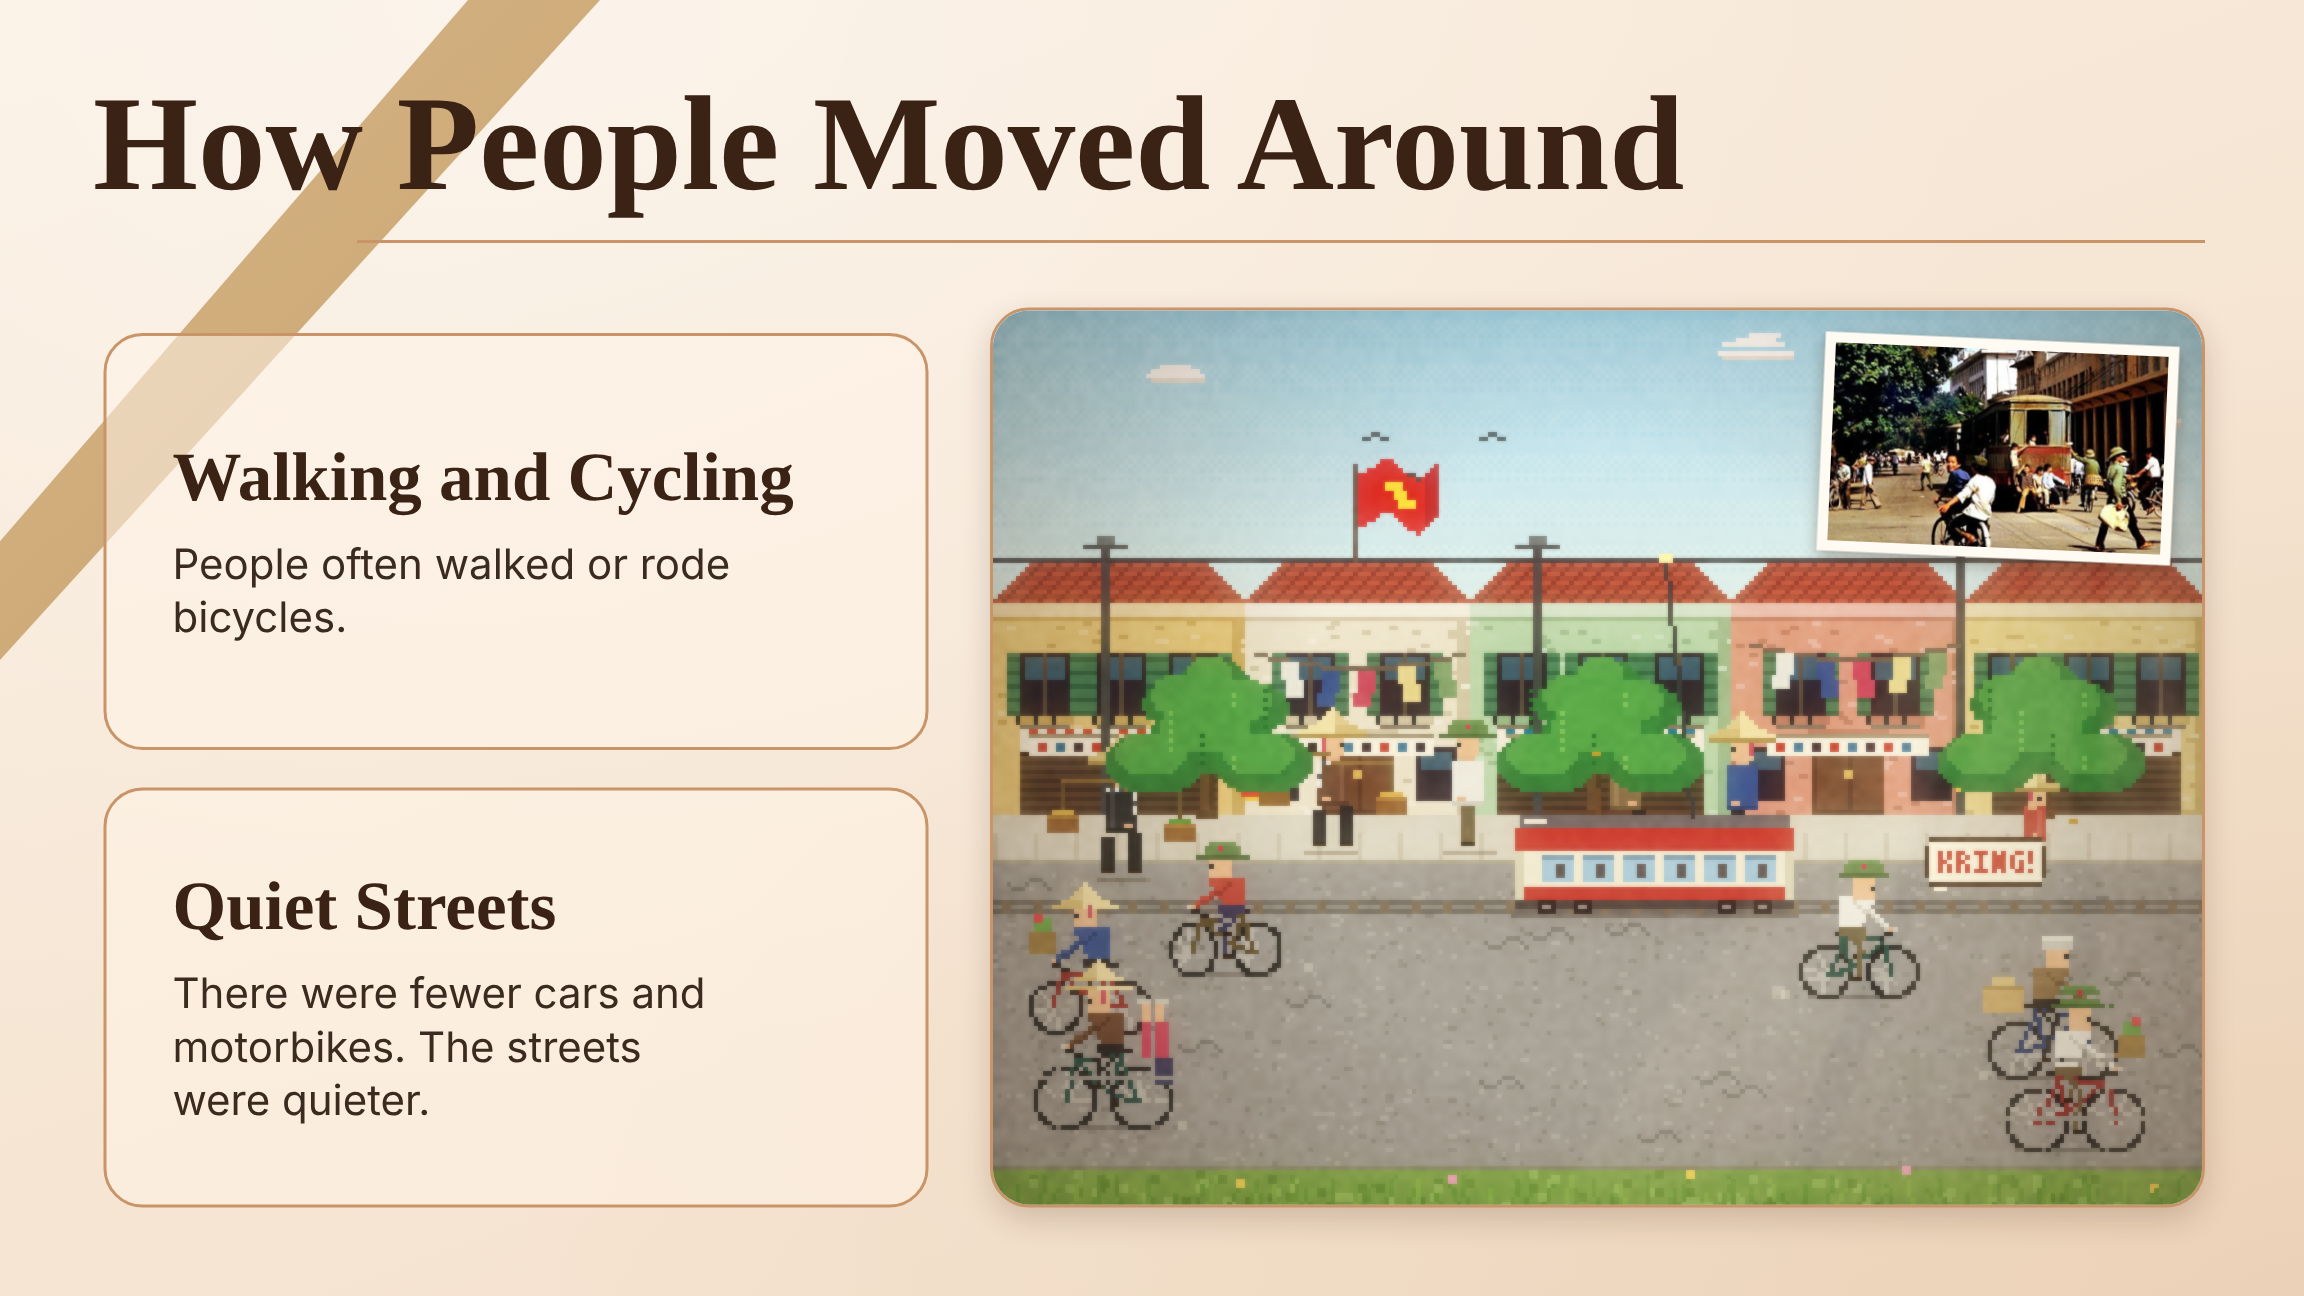
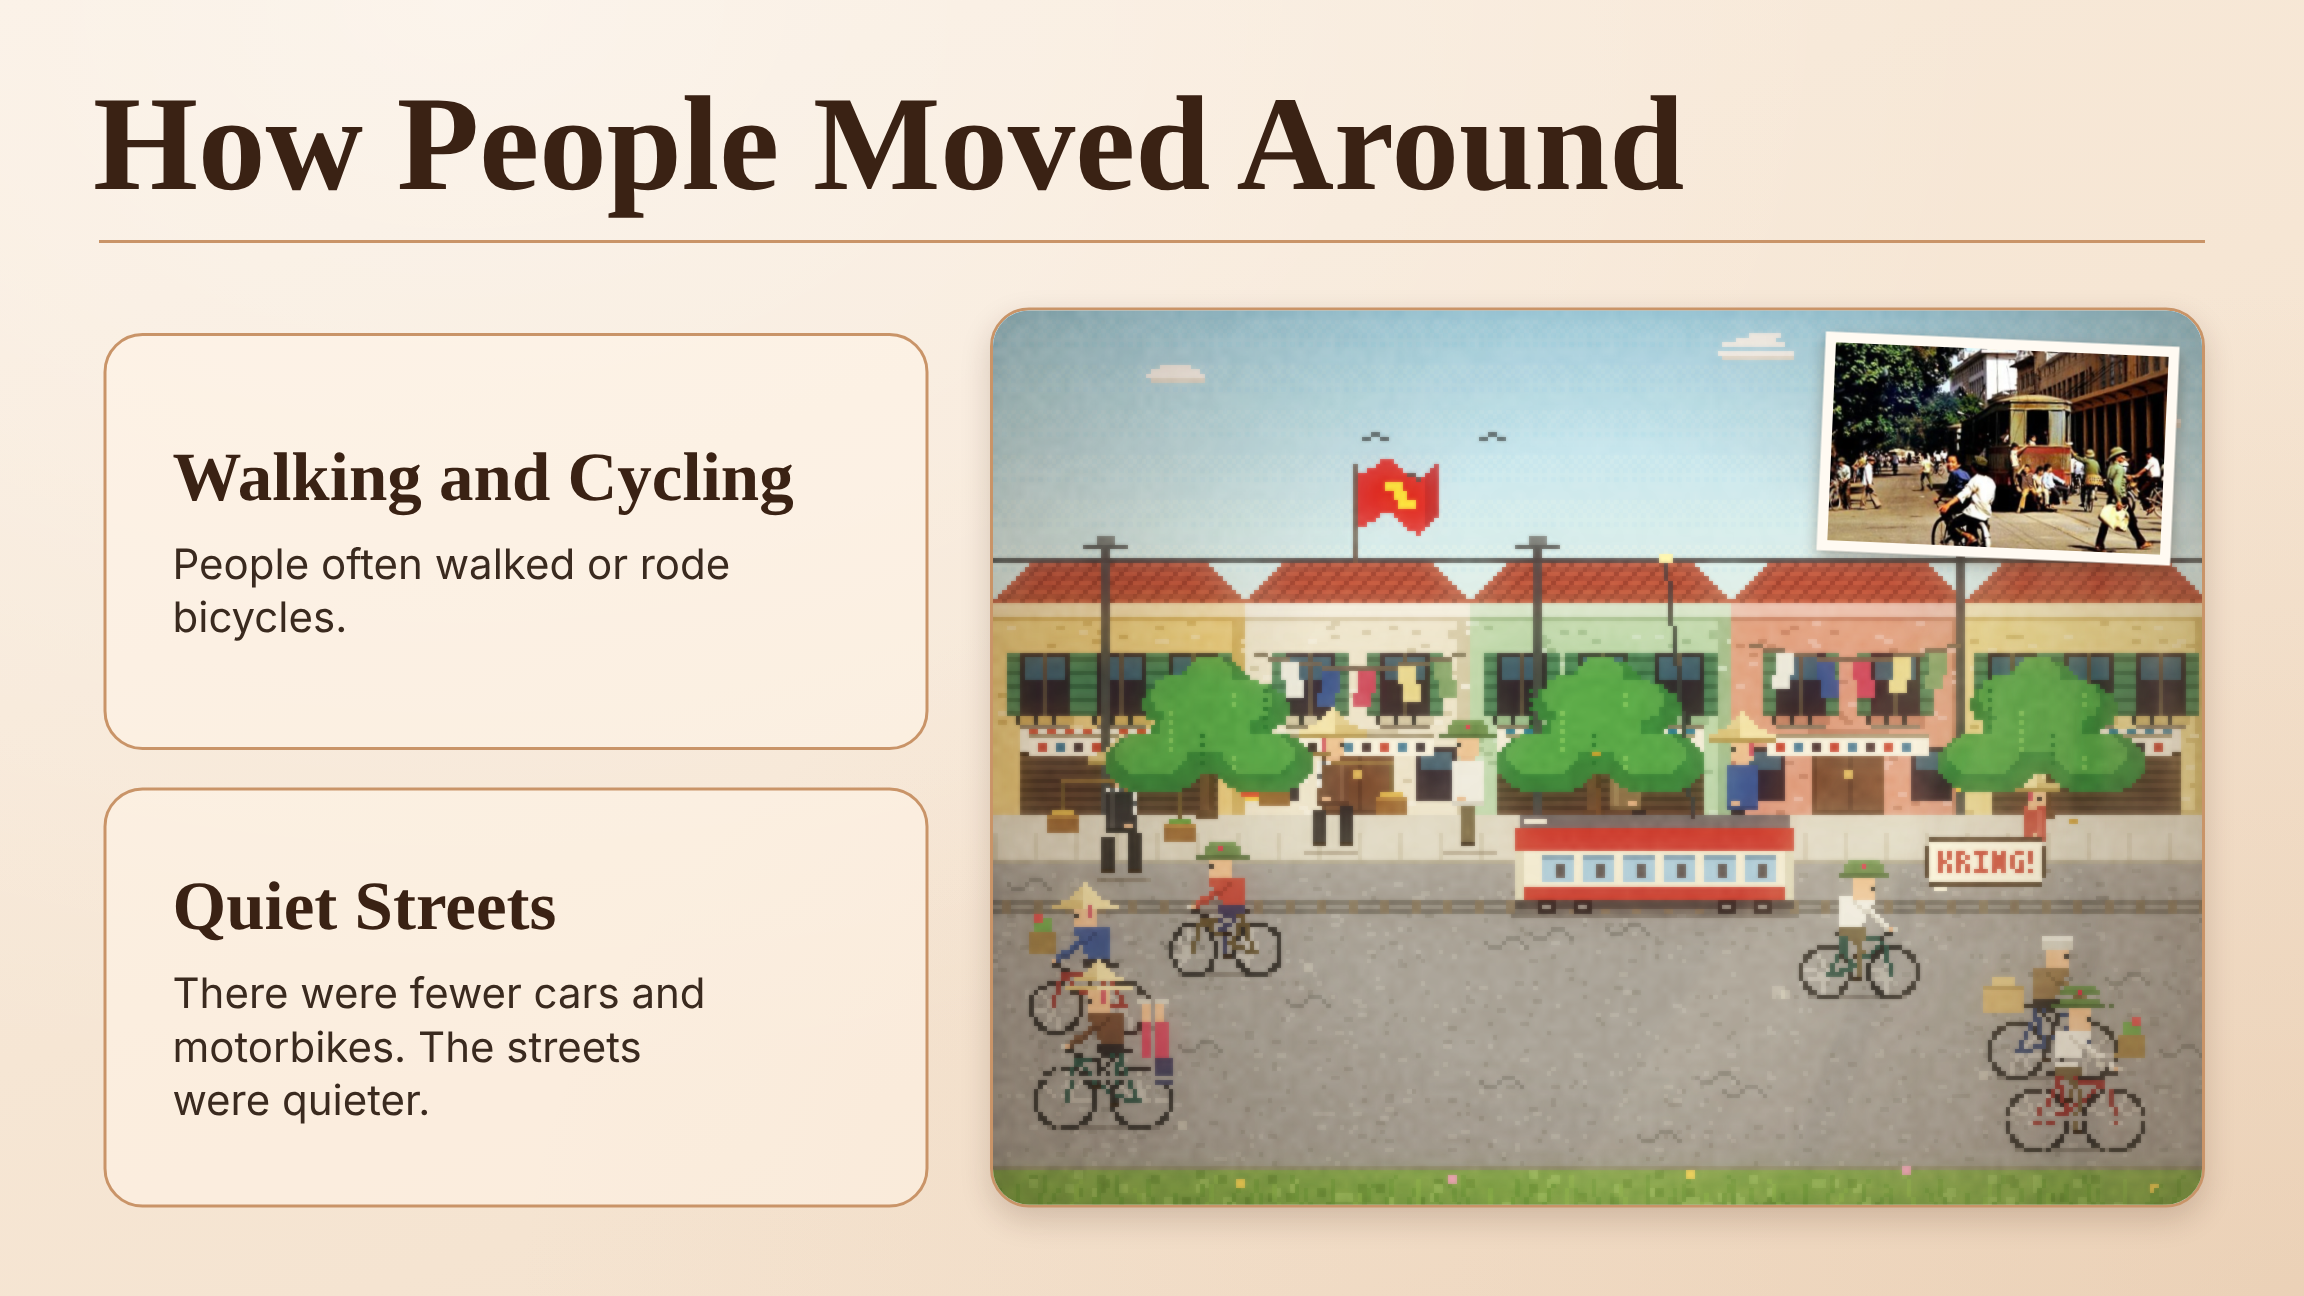
Bỏ băng keo slide 4; âm thanh slide bắt đầu đúng lúc (không phát khi màn đen, tiếng gió khớp từng cơn gió); đồng hồ có thể skip sau 3s; đổi tiêu đề chọn minigame
Claude-Session: https://claude.ai/code/session_015dETkK63Reb6JNnJAvDzmD

Changed region(s): [[0.0, 0.0, 0.2812, 0.4938]]

diff --git a/index.html b/index.html
@@ -401,6 +401,7 @@
       if (AMB.ctx.state === 'suspended') AMB.ctx.resume().catch(() => {});
       ambVol(); return AMB.ctx;
     }
+    ['pointerdown', 'keydown', 'touchstart'].forEach((ev) => addEventListener(ev, () => { try { ambCtx(); } catch (e) {} }, { capture: true, once: true }));   // mở khoá WebAudio ngay lần chạm đầu
     function ambStop() {
       const s = AMB.scene; AMB.scene = null; AMB.cur = -1; if (!s) return;
       s.timers.forEach(clearTimeout); s.dead = true;
@@ -409,7 +410,7 @@
     }
     function ambBuild(i) {
       const c = ambCtx(); if (!c) return null;
-      const out = c.createGain(); out.gain.value = 0; out.connect(AMB.master); out.gain.linearRampToValueAtTime(1, c.currentTime + 1.2);
+      const out = c.createGain(); out.gain.value = 0; out.connect(AMB.master); out.gain.linearRampToValueAtTime(1, c.currentTime + 0.4);
       const s = { out, nodes: [out], timers: [], dead: false };
       const add = (n) => { s.nodes.push(n); return n; };
       const gain = (v, to) => { const g = add(c.createGain()); g.gain.value = v; g.connect(to || out); return g; };
@@ -419,7 +420,7 @@
         const g = gain(v); src.connect(fl); fl.connect(g); src.start(); return { g, fl };
       };
       const lfo = (param, rate, depth, type) => { const o = add(c.createOscillator()); o.type = type || 'sine'; o.frequency.value = rate; const g = gain(depth, param.connect ? param : undefined); g.disconnect(); g.connect(param); o.connect(g); o.start(); return o; };
-      const every = (fn, a, b) => { const tick = () => { if (s.dead) return; fn(); s.timers.push(setTimeout(tick, a + Math.random() * (b - a))); }; s.timers.push(setTimeout(tick, a * 0.5 + Math.random() * a)); };
+      const every = (fn, a, b) => { const tick = () => { if (s.dead) return; fn(); s.timers.push(setTimeout(tick, a + Math.random() * (b - a))); }; s.timers.push(setTimeout(tick, 350 + Math.random() * a * 0.3)); };
       const tone = (f0, f1, dur, v, type) => {                    // 1 tiếng "ting/giọt/chim" ngắn có bao âm giảm dần
         if (s.dead) return; const t = c.currentTime, o = c.createOscillator(), g = c.createGain();
         o.type = type || 'sine'; o.frequency.setValueAtTime(f0, t); o.frequency.exponentialRampToValueAtTime(Math.max(20, f1), t + dur);
@@ -477,14 +478,13 @@
       ambStop();
       const s = ambBuild(i); if (!s) return;
       AMB.scene = s; AMB.cur = i;
-      if (i === 2 && AMB.doneAt) gustLoop(s);
-    }
+          }
     function gustLoop(s) {                                         // slide 3: cơn gió đầu sau 1.2s, rồi mỗi 6s (giống lịch gió của slide3-anim.html)
       const base = AMB.doneAt; if (s.gustOn) return; s.gustOn = true;
       const run = () => { if (s.dead) return; s.gust && s.gust(1); s.timers.push(setTimeout(run, 6000)); };
       const d = Math.max(0, base + 1200 - performance.now()); s.timers.push(setTimeout(run, d));
     }
-    function ambAnimDone(i) { AMB.doneAt = performance.now(); if (i === 2 && AMB.scene && AMB.cur === 2) gustLoop(AMB.scene); }
+    function ambAnimDone(i) { AMB.doneAt = performance.now(); }
     const BLOOD_TO_DISSOLVE_MS = 1000; // vết máu hiện xong, 1 giây sau mới chuyển
     const BLOCK_CHANCE = 0.3;          // xác suất vệt chém bị xương của Sans chặn
 
@@ -1567,7 +1567,7 @@
     function openSlide(i) {
       currentIndex = i;
       if (ANIM_SRC[i]) {                   // slide 2, 3: mở bản động
-        animState = GATED.has(i) ? 'loading' : null; ambStart(i);
+        animState = GATED.has(i) ? 'loading' : null; if (!GATED.has(i)) ambStart(i);      // slide có màn đen chờ click: âm thanh chỉ bắt đầu khi hình bắt đầu vẽ
         if (!takePre(i)) anim3.src = ANIM_SRC[i];
         anim3.style.opacity = '1';
         anim3.style.display = 'block';
@@ -1988,7 +1988,7 @@
 
     // ----- Slide 3 có bản động (iframe) -----
     function showAnim3(i = 2) {
-      ambStart(i);
+      if (!GATED.has(i)) ambStart(i);
       animState = GATED.has(i) ? 'loading' : null;
       if (!takePre(i)) anim3.src = ANIM_SRC[i];
       anim3.style.display = 'block';
@@ -2230,9 +2230,21 @@
       };
       frame();
       try { CLK_SND.currentTime = 0; CLK_SND.play().catch(() => {}); } catch (e) { }
+      // bỏ qua: sau 3 giây bấm / chạm / phím bất kỳ để nhảy luôn sang slide 1
+      let skipClk = false;
+      const hint = document.createElement('div');
+      hint.textContent = 'CLICK TO SKIP ▸';
+      hint.style.cssText = "position:absolute;right:18px;bottom:16px;font:10px 'Press Start 2P',monospace;color:#fff;opacity:0;transition:opacity .5s;pointer-events:none;text-shadow:0 0 6px #000;letter-spacing:1px";
+      soulIntro.appendChild(hint);
+      const hintT = setTimeout(() => { hint.style.opacity = '0.75'; }, 3000);
+      const onSkip = (e) => { if ((performance.now() - t0) < 3000) return; skipClk = true; if (e && e.preventDefault) e.preventDefault(); };
+      const skipEvs = ['pointerdown', 'keydown'];
+      skipEvs.forEach((ev) => document.addEventListener(ev, onSkip, true));
       await tw(soulIntro, { opacity: 1, duration: 0.45, ease: 'power1.out' });
       gridEl.style.display = 'none';
-      await wait(Math.max(0, CLK.GLITCH * 1000 - (performance.now() - t0)));
+      while (!skipClk && performance.now() - t0 < CLK.GLITCH * 1000) await wait(30);
+      skipEvs.forEach((ev) => document.removeEventListener(ev, onSkip, true)); clearTimeout(hintT); hint.remove();
+      if (skipClk) { try { CLK_SND.pause(); } catch (e) {} }
       // glitch: đồng hồ vỡ kênh màu, rồi slide 1 lộ ra
       startGlitch(1600, 0.45);
       const jit = setInterval(() => {
@@ -2946,9 +2958,11 @@
       if (d && d.type === 'hold-ready') { const q = POOL.find((x) => x.el.contentWindow === ev.source); if (q) q.ready = true; return; }
       if (d && ev.source === quizEl.contentWindow) { if (d.type === 'quiz-prev') quizBack(); else if (d.type === 'quiz-next') quizNext(); return; }
       if (ev.source !== anim3.contentWindow || !d) return;
+      if (d.type === 'wind-gust') { if (AMB.cur === 2 && AMB.scene && AMB.scene.gust) AMB.scene.gust(1); return; }      // cơn gió thật trên hình -> tiếng gió đúng lúc
       if (d.type === 'anim-state') {
         animState = d.state;
         if (d.state === 'busy') animBusyAt = performance.now();
+        if (d.state === 'busy' || d.state === 'done') { const ai = view === 'soul' ? soul.i : currentIndex; if (GATED.has(ai) && (view === 'soul' || view === 'detail')) ambStart(ai); }
         if (d.state === 'done') { ambAnimDone(view === 'soul' ? soul.i : currentIndex); animFinished(); }
         return;
       }

diff --git a/slide95-sans.html b/slide95-sans.html
@@ -49,7 +49,7 @@
 
   /* màn chọn nhân vật */
   #sel { position: absolute; inset: 0; display: none; }
-  #sel .ttl { position: absolute; top: 28px; width: 100%; text-align: center; font: 22px 'Press Start 2P', monospace; text-shadow: 4px 4px 0 #8a0016; }
+  #sel .ttl { position: absolute; top: 28px; width: 100%; text-align: center; font: min(22px, calc(92vw / 27)) 'Press Start 2P', monospace; text-shadow: 4px 4px 0 #8a0016; }
   #selRow { position: absolute; left: 0; right: 0; top: 130px; display: flex; justify-content: center; gap: 60px; pointer-events: none; }
   .chc { position: relative; width: 270px; height: 380px; border: 6px solid var(--line); background: rgba(0,0,0,.55); box-shadow: 0 0 0 4px #000, 0 0 28px rgba(255,255,255,.12); pointer-events: auto; }
   #selCard { cursor: pointer; }
@@ -126,7 +126,7 @@
   <div id="hud"></div>
 
   <div id="sel">
-    <div class="ttl">CHOOSE YOUR OPPONENT</div>
+    <div class="ttl">CHOOSE ONE TO PLAY MINIGAME</div>
     <div id="selRow">
       <div class="chc dis" id="cPap"><div class="spr" id="papSpr"></div><div class="nm">PAPYRUS</div></div>
       <div class="chc" id="selCard"><div class="nm" id="selName">SANS</div></div>

diff --git a/slide4-anim.html b/slide4-anim.html
@@ -14,7 +14,7 @@
     .deck { position: absolute; left: 0; top: 0; transform-origin: 0 0; zoom: 1; display: block; gap: 0; }
     /* Bố cục slide 4 có phố động: 2 thẻ bên trái, khung phố pixel bên phải, ảnh xe điện thật kẹp ở góc trời */
     .s4 .title { top: 50px; left: 62px; font-size: 90px; }
-    .s4 .rule { top: 160px; left: 238px; right: 66px; }
+    .s4 .rule { top: 160px; left: 66px; right: 66px; }
     .s4 .c1 { left: 69px; top: 222px; width: 550px; height: 278px; }
     .s4 .c2 { left: 69px; top: 525px; width: 550px; height: 280px; }
     .s4 .card p { max-width: 380px; font-size: 28px; }
@@ -35,7 +35,6 @@
 -->
 <main class="deck">
   <section class="slide s4" id="slide4">
-    <i class="tape t-tl"></i>
     <h2 class="title">How People Moved Around</h2>
     <hr class="rule">
     <article class="card c1"><h3>Walking and Cycling</h3><p>People often walked or rode bicycles.</p></article>

diff --git a/slides.css b/slides.css
@@ -70,7 +70,7 @@ img.photo { object-fit: cover; }
 .ptape.tr { left: 730px; top: -10px; transform: rotate(42deg); }
 
 .s4 .title { top: 62px; font-size: 94px; left: 62px; }
-.s4 .rule { top: 184px; left: 238px; right: 54px; }
+.s4 .rule { top: 184px; left: 64px; right: 54px; }
 .s4 .c1 { left: 64px; top: 222px; width: 593px; height: 286px; }
 .s4 .c2 { left: 64px; top: 530px; width: 593px; height: 286px; }
 .s4 .photo { left: 679px; top: 218px; width: 801px; height: 608px; }

diff --git a/slide3-anim.html b/slide3-anim.html
@@ -416,7 +416,7 @@
 
     // sinh hiệu ứng khi bắt đầu cơn gió mới
     const gi = gustIndex(t);
-    if (t >= FIRST_GUST && gi !== lastSpawnIdx) { lastSpawnIdx = gi; spawnGust(t); }
+    if (t >= FIRST_GUST && gi !== lastSpawnIdx) { lastSpawnIdx = gi; spawnGust(t); if (window.parent !== window) window.parent.postMessage({ type: 'wind-gust' }, '*'); }
 
     // vẽ lớp pixel
     g.clearRect(0, 0, 1536, 864);

diff --git a/slides.html b/slides.html
@@ -64,7 +64,6 @@
 
   <!-- 4. How People Moved Around -->
   <section class="slide s4" id="slide4">
-    <i class="tape t-tl"></i>
     <h2 class="title">How People Moved Around</h2>
     <hr class="rule">
     <article class="card c1"><h3>Walking and Cycling</h3><p>People often walked or rode bicycles.</p></article>
